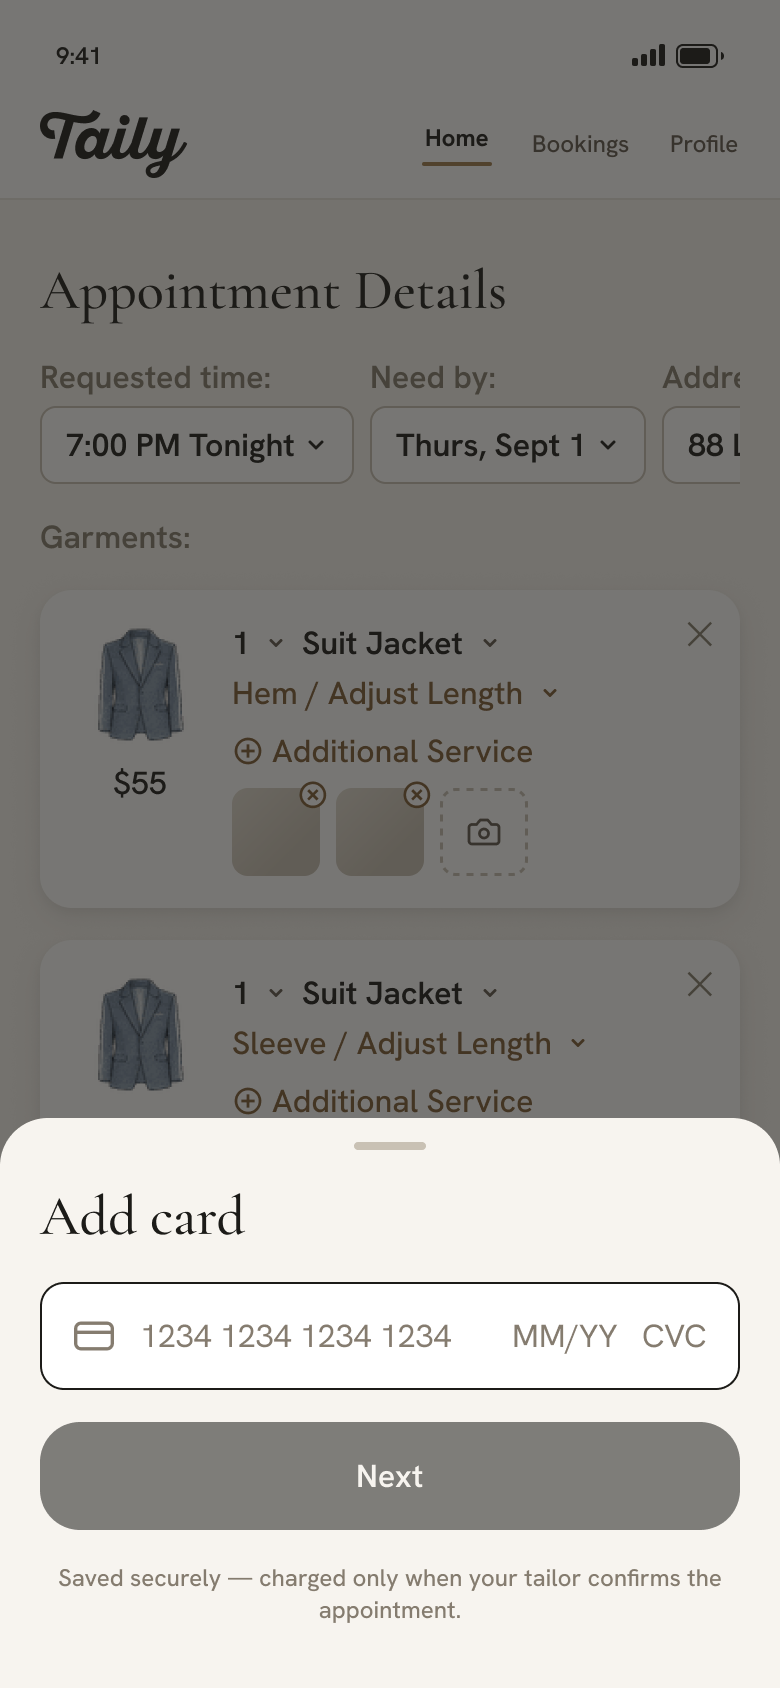
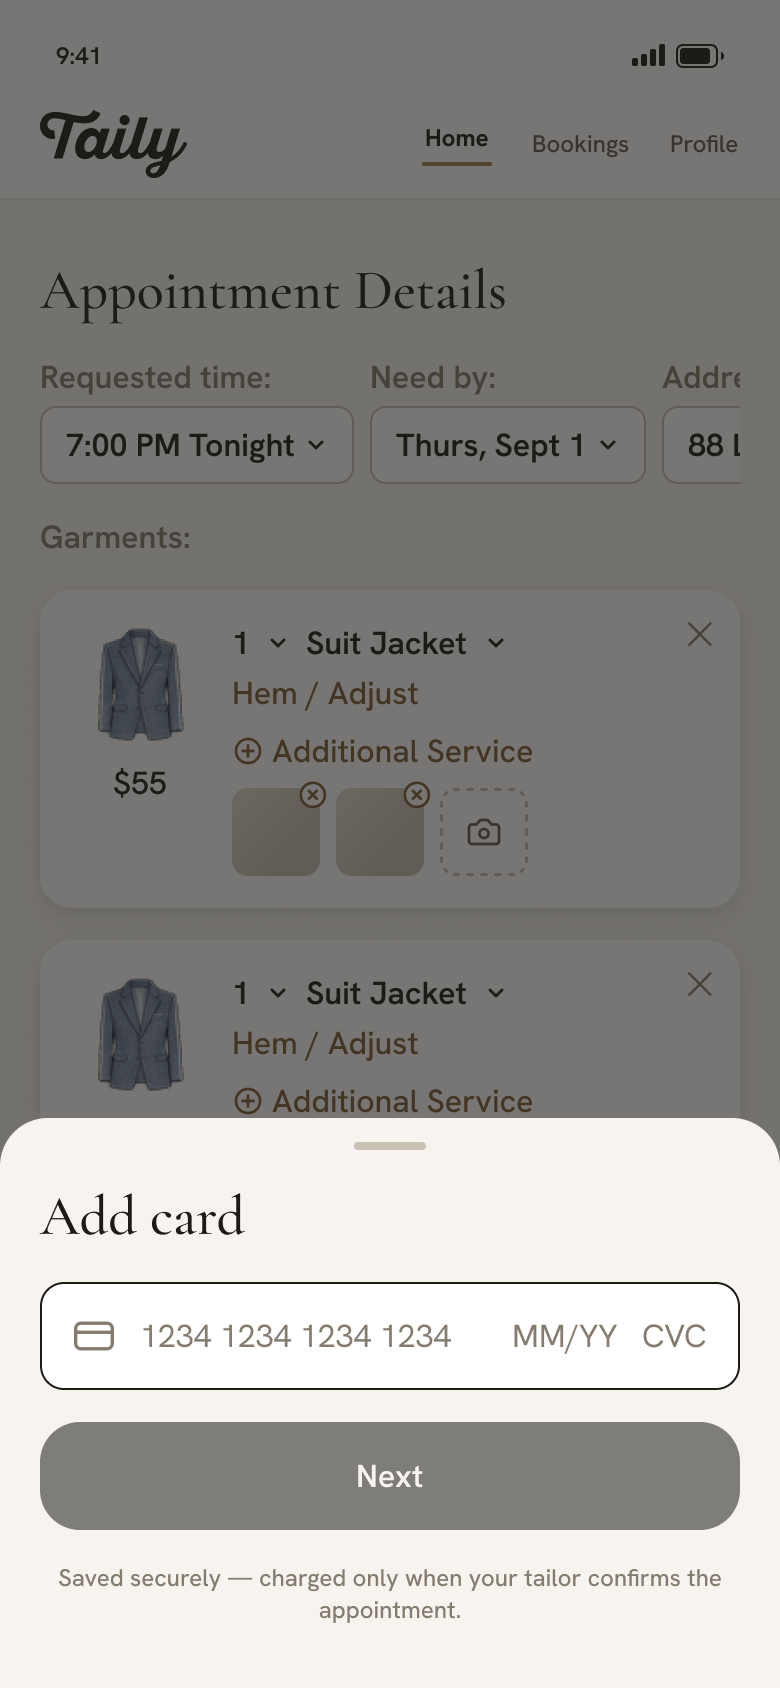
feat: Selector component + 01a heading swap (Figma sync)
- Selector (535:1582): new inline dropdown in garment cards — trigger
  SemiBold 16 ink (Quantity/Item) or Medium 16 accent (Job) with a 12px
  chevron (was 10), menu absolute below (96/220 wide, white r12, pad 6,
  14px options, selected row accent-bg + ✓). Wired on 02: one menu at a
  time, click-away closes, picking writes the garment and re-renders.
  size/14 is now a real Figma variable — tokenised; .bubble binds to it.
- 02 frame content: both seeded cards are now "Hem / Adjust" (added to
  JOB_TYPES at $100 to keep the $20 deposit — not a v3 key, flagged),
  job triggers render chevron-less per the frame (master disagrees —
  flagged in CLAUDE.md).
- 01a: the page title now swaps to "Tap to Add More Items" while a
  selection exists (was a helper line under the grid, removed).
- refs re-exported (01a, 02, 02a, 04a, 04b). Full suite passes; worst
  non-exempt 0.98% (01a 0.59%, 02 0.76%).

Changed region(s): [[0.3077, 0.5853, 0.7077, 0.6469], [0.4, 0.3697, 0.6769, 0.4313]]

diff --git a/js/components.js b/js/components.js
@@ -79,7 +79,7 @@ export function chrome(active = 'home', time = '9:41') {
    ============================================================ */
 
 import { PILL_ICONS, CHEVRON_DOWN, CHEVRON_10, ICON_CAMERA, ICON_CANCEL, TILE_MINUS, CHEVRON_RIGHT, ICON_CARD, ICON_ADD_CIRCLE } from './icons.js';
-import { GARMENT_ICONS } from './data.js';
+import { GARMENT_ICONS, GARMENT_TYPES, JOB_TYPES } from './data.js';
 
 /** CTA — variant: 'default' | 'secondary'. */
 export function cta(label, { variant = 'default', disabled = false, attrs = '' } = {}) {
@@ -270,9 +270,25 @@ export function photoTile(kind = 'add', { removable = false } = {}) {
  * ViewOnly | PostAppt. Editable variants get chevrons, the add-service
  * button, editable photo tiles and the ✕ remove control.
  */
+/* ============================================================
+   Selector — Figma 535:1582. Inline dropdown selector used in garment
+   cards. Type = Quantity / Item / Job (Job renders accent Medium; the
+   others SemiBold ink). The menu is absolutely positioned so the
+   trigger footprint is unchanged; open/close toggled by wiring via
+   .selector--open.
+   ============================================================ */
+const SELECTOR_CHEVRON = CHEVRON_DOWN.replace('select-time__chevron', 'selector__chevron');
+
+export function selector(type, value, options = [], { attrs = '', chevron = true } = {}) {
+  const menu = `<div class="selector__menu">${options.map((o) =>
+    `<button type="button" class="selector__option${o === value ? ' is-selected' : ''}" data-option="${o}">${o}${o === value ? '<span>✓</span>' : ''}</button>`).join('')}</div>`;
+  return `<span class="selector selector--${type}"><button type="button" class="selector__trigger" ${attrs}>${value}${chevron ? SELECTOR_CHEVRON : ''}</button>${menu}</span>`;
+}
+
 export function garmentCard({
   variant = 'Default', type = 'Suit Jacket', qty = 1, price = null,
   services = ['Hem / Adjust Length'], photos = 0, beforePhotos = 0, pinnedPhotos = 0,
+  index = null,
 } = {}) {
   const editable = variant === 'Default' || variant === 'WithPhoto';
   // Card art: ref-rendered raster when we have one (matches Figma's
@@ -288,11 +304,12 @@ export function garmentCard({
 
   let rows;
   if (editable) {
+    const gi = index === null ? '' : ` data-gi="${index}"`;
     rows = `<div class="garment-card__row">
-      <span>${qty}</span>${CHEVRON_10}
-      <span>${type}</span>${CHEVRON_10}
+      ${selector('quantity', String(qty), ['1', '2', '3', '4', '5'], { attrs: `data-sel="qty"${gi}` })}
+      ${selector('item', type, Object.keys(GARMENT_TYPES), { attrs: `data-sel="item"${gi}` })}
     </div>
-    ${services.map((s) => `<div class="garment-card__service">${s}<span class="icon-10--accent" style="display:inline-flex">${CHEVRON_10}</span></div>`).join('')}
+    ${services.map((s, j) => `<div class="garment-card__service">${selector('job', s, Object.keys(JOB_TYPES), { attrs: `data-sel="job" data-ji="${j}"${gi}`, chevron: false })}</div>`).join('')}
     <button type="button" class="garment-card__add">${ICON_ADD_CIRCLE}<span>Additional Service</span></button>`;
   } else {
     rows = `<div class="garment-card__row garment-card__row--tight">

diff --git a/js/screens/02-appointment-details.js b/js/screens/02-appointment-details.js
@@ -15,13 +15,14 @@ import { state, addGarment, bookingLines } from '../state.js';
 import { openDateTimeOverlay } from './02a-date-time-sheet.js';
 import { openPaymentOverlay } from './04a-payment-sheet.js';
 
-/* The frame's placeholder garments: two suit jackets (Hem / Sleeve),
-   two photos each, "$55" placeholder price. Seeded only when the user
-   arrives without building a selection on Home. */
+/* The frame's placeholder garments (revised Aug 2026): two identical
+   suit jackets, both "Hem / Adjust", two photos each, "$55" placeholder
+   price. Seeded only when the user arrives without building a
+   selection on Home. */
 function ensureGarments() {
   if (state.garments.length) return;
-  addGarment({ type: 'Suit Jacket', jobs: ['Hem / Adjust Length'], qty: 1, photos: 2, displayPrice: '$55' });
-  addGarment({ type: 'Suit Jacket', jobs: ['Sleeve / Adjust Length'], qty: 1, photos: 2, displayPrice: '$55' });
+  addGarment({ type: 'Suit Jacket', jobs: ['Hem / Adjust'], qty: 1, photos: 2, displayPrice: '$55' });
+  addGarment({ type: 'Suit Jacket', jobs: ['Hem / Adjust'], qty: 1, photos: 2, displayPrice: '$55' });
 }
 
 function priceFor(g) {
@@ -44,6 +45,7 @@ export function view02(s) {
     price: priceFor(g),
     services: g.jobs,
     photos: g.photos ?? 0,
+    index: i,
   })).join('\n  ');
 
   return `${chrome('home')}
@@ -65,6 +67,33 @@ export function view02(s) {
 }
 
 function wire(root) {
+  /* Selector dropdowns (535:1582) — one open at a time; clicking an
+     option writes the garment and re-renders; click-away closes. */
+  const closeMenus = () => root.querySelectorAll('.selector--open').forEach((el) => el.classList.remove('selector--open'));
+  root.querySelectorAll('.selector__trigger').forEach((btn) => {
+    btn.addEventListener('click', (e) => {
+      e.stopPropagation();
+      const sel = btn.closest('.selector');
+      const wasOpen = sel.classList.contains('selector--open');
+      closeMenus();
+      if (!wasOpen) sel.classList.add('selector--open');
+    });
+  });
+  root.querySelectorAll('.selector__option').forEach((opt) => {
+    opt.addEventListener('click', (e) => {
+      e.stopPropagation();
+      const trigger = opt.closest('.selector').querySelector('.selector__trigger');
+      const g = state.garments[Number(trigger.dataset.gi)];
+      const v = opt.dataset.option;
+      if (!g) return;
+      if (trigger.dataset.sel === 'qty') g.qty = Number(v);
+      if (trigger.dataset.sel === 'item') g.type = v;
+      if (trigger.dataset.sel === 'job') g.jobs[Number(trigger.dataset.ji)] = v;
+      go('02-appointment-details', { replace: true });
+    });
+  });
+  root.addEventListener('click', closeMenus);
+
   root.querySelector('[data-act="time"]')?.addEventListener('click', () => openDateTimeOverlay('appt'));
   root.querySelector('[data-act="needby"]')?.addEventListener('click', () => openDateTimeOverlay('needby'));
   root.querySelector('[data-act="request"]')?.addEventListener('click', () => openPaymentOverlay());

diff --git a/css/components.css b/css/components.css
@@ -658,16 +658,7 @@
   color: var(--ink);
 }
 .garment-card__row--tight { gap: var(--space-12); }
-.garment-card__service {
-  display: flex;
-  align-items: center;
-  gap: var(--space-8);
-  font-family: var(--font-sans);
-  font-size: var(--size-16);
-  line-height: 21px;
-  font-weight: 500;
-  color: var(--accent-ink);
-}
+.garment-card__service { display: flex; align-items: center; gap: var(--space-8); }
 .garment-card__add {
   display: inline-flex;
   align-items: center;
@@ -682,6 +673,63 @@
 }
 /* Figma: 16px icon box with the 13.33px glyph centred — advance 16+4 */
 .garment-card__add .icon-add-circle { width: 13.33px; height: 13.33px; margin: 1.33px; flex-shrink: 0; }
+
+/* ---------- Selector — Figma 535:1582 ----------
+   Inline dropdown in garment cards. Quantity/Item triggers SemiBold 16
+   ink, Job Medium 16 accent; 12px chevron at gap 8. Menu absolute below
+   the trigger (top 27) so the footprint never changes: white r12,
+   border n200, pad 6, gap 2, options 14px py9 px12 r8; selected option
+   accent-bg SemiBold accent-ink with a ✓. */
+.selector { position: relative; display: inline-flex; flex-direction: column; }
+.selector__trigger {
+  display: inline-flex;
+  align-items: center;
+  gap: var(--space-8);
+  font-family: var(--font-sans);
+  font-size: var(--size-16);
+  line-height: 21px;
+  font-weight: 600;
+  color: var(--ink);
+}
+.selector--job .selector__trigger { font-weight: 500; color: var(--accent-ink); }
+.selector__chevron { width: 12px; height: 12px; flex-shrink: 0; transition: transform 180ms var(--ease-out); }
+.selector--open .selector__chevron { transform: rotate(180deg); }
+.selector__menu {
+  display: none;
+  position: absolute;
+  top: 27px;
+  left: 0;
+  z-index: 5;
+  flex-direction: column;
+  gap: 2px;
+  width: 220px;
+  padding: 6px;
+  background: var(--white);
+  border: 1px solid var(--neutral-200);
+  border-radius: var(--radius-md);
+  box-shadow: 0 6px 18px rgba(0, 0, 0, 0.08);
+}
+.selector--quantity .selector__menu { width: 96px; }
+.selector--open .selector__menu { display: flex; }
+.selector__option {
+  display: flex;
+  align-items: center;
+  justify-content: space-between;
+  width: 100%;
+  padding: 9px 12px;
+  border-radius: var(--radius-sm);
+  font-family: var(--font-sans);
+  font-size: var(--size-14);
+  line-height: 18px;
+  font-weight: 500;
+  color: var(--ink);
+  text-align: left;
+}
+.selector__option.is-selected {
+  background: var(--accent-bg);
+  font-weight: 600;
+  color: var(--accent-ink);
+}
 
 .garment-card__close {
   position: absolute;
@@ -914,7 +962,7 @@
   background: var(--white);
   color: var(--ink);
   font-family: var(--font-sans);
-  font-size: 14px;
+  font-size: var(--size-14);
   line-height: 18px;
   font-weight: 400;
 }

diff --git a/js/screens/01a-home-selected.js b/js/screens/01a-home-selected.js
@@ -1,9 +1,9 @@
 /* ============================================================
    01a - Home_Selected — Figma 532:940.
    01-Home mid-selection: selected tiles carry the ink border, qty
-   badge and minus button; "Tap to select more items" appears between
-   the grid and the CTA. Same view + wiring as 01-home — this module
-   only registers the frame's preset selection (Suit Jacket ×1,
+   badge and minus button, and the page title swaps to "Tap to Add
+   More Items". Same view + wiring as 01-home — this module only
+   registers the frame's preset selection (Suit Jacket ×1,
    Shirt / Blouse ×1) so the diff harness can render it directly.
    ============================================================ */
 

diff --git a/js/screens/01-home.js b/js/screens/01-home.js
@@ -62,11 +62,10 @@ export function view01(s) {
   return `${chrome('home')}
 <div class="body" data-s="01-home">
   <div class="home-heading">
-    <h1 class="t-title t-title--tight c-ink">What Are We Tailoring?</h1>
+    <h1 class="t-title t-title--tight c-ink">${anySelected ? 'Tap to Add More Items' : 'What Are We Tailoring?'}</h1>
     <p class="t-body c-ink"><span class="emoji">📍</span> 88 Leonard St, New York, NY</p>
   </div>
   <div class="tile-grid">${tiles}</div>
-  ${anySelected ? '<p class="t-body c-ink tap-more">Tap to select more items</p>' : ''}
   ${cta('Start Booking', { attrs: 'data-act="start-booking"' })}
   <div class="upcoming-header">
     <span class="t-section c-500">Upcoming Appointments</span>

diff --git a/js/data.js b/js/data.js
@@ -31,6 +31,10 @@ export const GARMENT_TYPES = {
 
 /* Baseline service prices — each tailor applies their own multiplier; all shown as "$N+" minimums */
 export const JOB_TYPES = {
+  /* Added Aug 2026: the revised 02 frame seeds both placeholder cards
+     with "Hem / Adjust" (not a v3 key). Priced so the two seeded
+     garments still sum to $200 → the frame's "$20 Deposit (10%)". */
+  'Hem / Adjust': { price: 100 },
   'Hem / Adjust Length': { price: 120 },
   'Sleeve / Adjust Length': { price: 80 },
   'Taper / Slim Fit': { price: 90 },

diff --git a/css/screens.css b/css/screens.css
@@ -9,8 +9,6 @@
 [data-s="01-home"] { gap: var(--space-16); }
 .home-heading { display: flex; flex-direction: column; gap: var(--space-8); }
 .upcoming-header { display: flex; align-items: center; justify-content: space-between; }
-/* 01a (532:1055): helper line between grid and CTA once a tile is selected. */
-.tap-more { text-align: center; }
 
 /* 02 - Appointment Details — frame is 931 tall with dead space below
    the CTA bar; Filters frame is fixed 64 with 52px of content. */

diff --git a/css/tokens.css b/css/tokens.css
@@ -63,6 +63,10 @@
   /* ---------- Type sizes · Taily / Type ---------- */
   --size-10: 10px;
   --size-12: 12px;
+  /* size/14 became a real Figma variable with the Selector component
+     (535:1582 menu options bind to it) — the 14px chat bubble now
+     binds here too instead of a literal. */
+  --size-14: 14px;
   --size-16: 16px;
   /* NOT a Figma variable — the Aug 2026 serif headers (Upcoming Header
      532:958, Date & Time title 277:2921) carry literal 20px, off the

diff --git a/CLAUDE.md b/CLAUDE.md
@@ -54,7 +54,7 @@ Chrome lives in `js/components.js`: `statusBar(time)`, `topNav(active)`, `chrome
 
 ## Component library (Phase 3)
 
-`css/components.css` + `js/components.js` (27 render fns) + `components.html` gallery. One class per Figma variant. Icons are exact Figma vectors in `js/icons.js` (generated from `assets/icons/`, currentColor). Figma strokes are INSIDE — bordered hug-height components use `box-shadow: inset 0 0 0 1px …`, never `border`, or they grow 2px. Key fns: `cta, ctaSmall, statusPill (9), timeChip, selectTime, filterPill, garmentTile, apptCard, statusHero (6), summaryCard, garmentCard (4), progressBar (4), bubble, timeline, deliveryWindow, infoCard/infoRow/metaRow/feeRow, methodRow, sheet, wheel`. Motion: press scale + sheet drawer per the animate skill; `prefers-reduced-motion` handled.
+`css/components.css` + `js/components.js` (27 render fns) + `components.html` gallery. One class per Figma variant. Icons are exact Figma vectors in `js/icons.js` (generated from `assets/icons/`, currentColor). Figma strokes are INSIDE — bordered hug-height components use `box-shadow: inset 0 0 0 1px …`, never `border`, or they grow 2px. Key fns: `cta, ctaSmall, statusPill (9), timeChip, selectTime, filterPill, garmentTile, apptCard, statusHero (6), summaryCard, garmentCard (4), progressBar (4), bubble, timeline, deliveryWindow, infoCard/infoRow/metaRow/feeRow, methodRow, sheet, sheetOverlay, wheel, wheelScroll/wireWheel, selector`. `Selector` `535:1582` (Aug 2026) is the garment-card inline dropdown — Type=Quantity/Item/Job × State=Closed/Open; menu absolute (96/220 wide) so the trigger footprint never changes. Motion: press scale + sheet drawer per the animate skill; `prefers-reduced-motion` handled.
 
 ## Deliberate deviations from the frames (Kevin-directed)
 
@@ -65,7 +65,8 @@ Chrome lives in `js/components.js`: `statusBar(time)`, `topNav(active)`, `chrome
 - **Top Nav `Active` state**: `04c` / `04d` use `Active=Bookings`, but all nine "body" screens (03, 05, M1, 06, 06a, 07, 07a, 07b, 08) use `Active=Home` even though they are post-booking. Build what Figma shows; raise it rather than correcting it.
 - `apple-pay-badge` / `google-pay-badge` on `04a` are plain frames by decision (brand marks), not components.
 - `09-bookings` is a top-level tab, not a step in the booking flow; its number is a filing convention only.
-- `T2 / Chat Bubble` master text is **14px — off the type scale** (kept verbatim in `.bubble`). Photo-tile gradient starts at `#E2DCD1`, one digit off `neutral-200`. The 02a sheet draws a 40×4 grabber where 04a/04b use 36×4. All three await Kevin's call.
+- `T2 / Chat Bubble` master text is 14px — was off the scale until Aug 2026, when `size/14` became a real Figma variable (the Selector menu binds to it); `.bubble` and `.selector__option` now use `--size-14`. Photo-tile gradient starts at `#E2DCD1`, one digit off `neutral-200`. The 02a sheet draws a 40×4 grabber where 04a/04b use 36×4. Both still await Kevin's call.
+- **Selector master vs 02 instances disagree**: the master's Job trigger has a 12px chevron and reads "Hem / Adjust Length"; the 02 frame's card instances hide the chevron and read **"Hem / Adjust"** — which is not a v3 `JOB_TYPES` key (added to `data.js` at $100 so the two seeded cards keep the frame's "$20 Deposit"). The master's Job menu also lists short names (Taper / Sleeve / Resize / Repair) where the build's menus use the real `JOB_TYPES` keys. Raised, not silently fixed.
 - The Confirmed pill on 01's appointment card draws its ring at **full `--info` strength** where the Status Pill master specifies the text colour at 35% — instance vs master disagree. The 03 meta rows use **text glyphs (◉ ▤ ✂)** whose scissors renders upright in Figma's font but left-facing in Segoe. Both raised, not silently fixed.
 - The Aug 2026 serif headers — `Upcoming Header` (`532:958` on 01/01a) and the 02a sheet title (`277:2921`) — are **literal 20px, unbound to any size variable** (no `size/20` exists). Built verbatim via `--size-20` in `tokens.css` (marked as not-a-Figma-variable) + `.t-section` / `.sheet__title`. Raised, awaiting Kevin's call.
 - The updated sheet frames (02a/04a/04b) draw the full 02 screen dimmed behind the scrim (was a flat backdrop) — built via `view02()` in `.sheet-backdrop`. 02a's picker sheet (358 tall at y490) and 04b's sheet (286 at y559) overflow the 844 frame by 4px / 1px; reproduced with negative `bottom` offsets, not padding changes.
